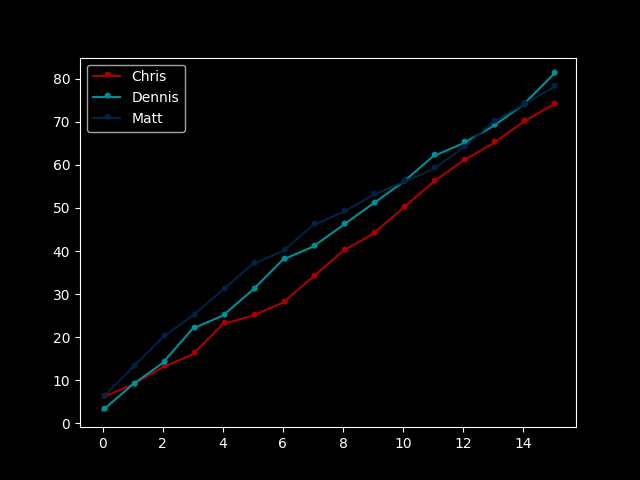
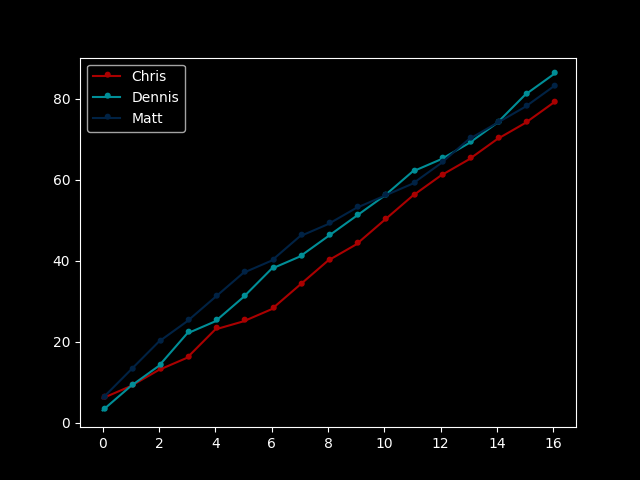
update2022-01-03

diff --git a/nfl-2021/index.html b/nfl-2021/index.html
@@ -298,16 +298,30 @@
       </tr>
       <tr>
        <th>
+        17
+       </th>
+       <td>
+        5
+       </td>
+       <td>
+        5
+       </td>
+       <td>
+        5
+       </td>
+      </tr>
+      <tr>
+       <th>
         Total
        </th>
        <td>
-        74
+        79
        </td>
        <td>
-        81
+        86
        </td>
        <td>
-        78
+        83
        </td>
       </tr>
      </tbody>
@@ -456,7 +470,7 @@
   <html>
    <body>
     <p id="updates">
-     updated: 2022-01-01 ...version: P67_J
+     updated: 2022-01-03 ...version: s85_M
     </p>
    </body>
   </html>
